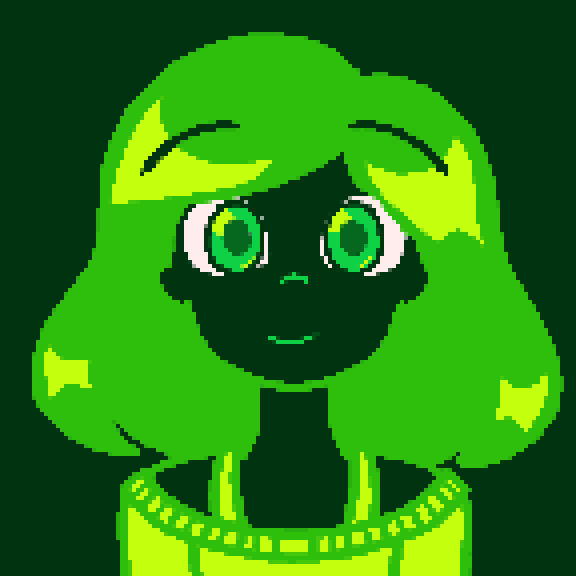
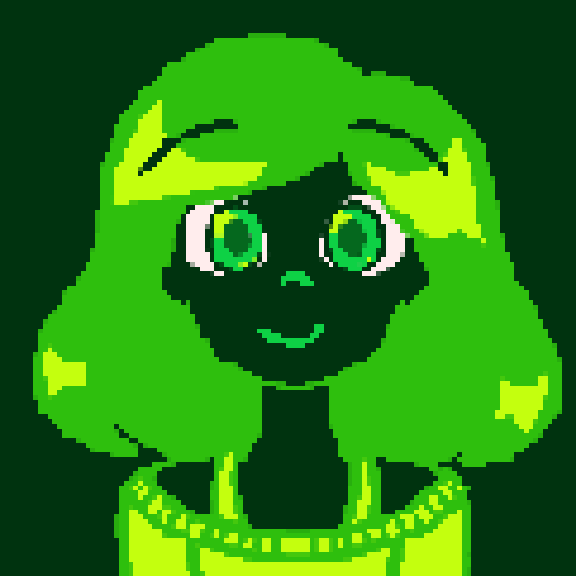
visual changes

diff --git a/src/components/Body/moodSelect.css b/src/components/Body/moodSelect.css
@@ -4,20 +4,6 @@
   justify-content: space-evenly;
 }
 
-.std-msg {
-  display: inline-flex;
-  margin-left: auto;
-  margin-right: auto;
-  padding: 10px;
-  height: max-content;
-  flex-wrap: wrap;
-  font-size: 24px;
-  letter-spacing: 3px;
-  word-spacing: 1em;
-  text-align: center;
-  color: #120e1b;
-  font-family: 'Playmegames', sans-serif;
-}
 
 #angry {
   display: flex;
@@ -25,17 +11,18 @@
   justify-content: center;
   align-content: center;
   margin: 40px;
+  padding: 10px;
   border-style: ridge;
-  border-radius: 100%;
-  box-shadow:3px 3px #44315e;
+  border-radius: 5px;
+  box-shadow:3px 3px #001406;
   text-decoration-line: none;
   font-size: x-large;
   color: #120e1b;
   font-family: 'Playmegames';
   border-color:#ff5c61;
   background-color: #ff7075;
-  width: 100px;
-  height: 100px;
+  width: 90px;
+  height: 90px;
 }
 #angry:hover {
   background-color: #fa4d53;
@@ -48,17 +35,18 @@
   justify-content: center;
   align-content: center;
   margin: 40px;
+  padding: 7px;
   border-style: ridge;
-  border-radius: 100%;
-  box-shadow:3px 3px #44315e;
+  border-radius: 5px;
+  box-shadow:3px 3px #001406;
   text-decoration-line: none;
   font-size: x-large;
   color: #120e1b;
   font-family: 'Playmegames';
   border-color: #ffca3a;
   background-color: #ffd35c;
-  width: 100px;
-  height: 100px;
+  width: 90px;
+  height: 90px;
 }
 #happy:hover {
   background-color:#fdc62f;
@@ -72,16 +60,16 @@
   align-content: center;
   margin: 40px;
   border-style: ridge;
-  border-radius: 100%;
-  box-shadow:3px 3px #44315e;
+  border-radius: 5px;
+  box-shadow:3px 3px #001406;
   text-decoration-line: none;
   font-size: x-large;
   color: #120e1b;
   font-family: 'Playmegames';
   border-color:#93cef3;
   background-color: #93cdf0;
-  width: 100px;
-  height: 100px;
+  width: 90px;
+  height: 90px;
 }
 #sad:hover {
   background-color: #3cacf1;
@@ -94,19 +82,19 @@
   flex-wrap: wrap;
   justify-content: center;
   align-content: center;
-  width: 6em;
-  height: 6em;
+  width: 90px;
+  height: 90px;
   margin: 40px;
   padding: 10px;
   border-style: ridge;
-  border-radius: 100%;
+  border-radius: 5px;
   border-color: #dad8d5;
   background-color: #e2e2e1;
-  box-shadow: 3px 3px #44315e;
+  box-shadow: 3px 3px #001406;
   text-decoration-line: none;
   color: #2a2828;
   font-family: 'Playmegames';
-  text-align:
+  text-align: center;
 }
 
 .std-mood-buttons:hover {

diff --git a/src/App.css b/src/App.css
@@ -1,9 +1,19 @@
 * {
-  background-color: #6a4c93;
+  background-color: #00140659;
   margin: 2px;
   padding: 2px;
   box-sizing: border-box;
 }
+
+/* 
+001b0a63
+#000003
+#001406
+#00330f
+#05681e
+#27a90d
+#2ebf0d
+#c4ff0e */
 
 .EMAs_Image {
   display: flex;
@@ -13,40 +23,42 @@
   width: 15rem;
   height: 15rem;
   border-radius: 3px;
-  border: 5px dashed #b4a1ce;
+  border: 5px dashed #27a90d;
 }
 
 .std-msg {
   display: inline-flex;
   margin-left: auto;
   margin-right: auto;
-  padding: 10px;
+  padding: 5px;
   height: max-content;
   flex-wrap: wrap;
   font-size: 24px;
   letter-spacing: 3px;
   word-spacing: 1em;
+  line-height: 100%;
   text-align: center;
-  color: #120e1b;
+  color: #2ebf0d;
   font-family: 'Playmegames', sans-serif;
 }
 
 .continue {
   display: flex;
+  max-width: max-content;
+  max-height: max-content;
+  padding: 7px;
   margin-left: auto;
   margin-right: auto;
   justify-content: center;
   border-style: ridge;
   border-color:#a1db43;
-  border-radius: 25px;
+  border-radius: 5px;
   font-size: large;
   font-family: 'Playmegames';
-  color: darkgreen;
+  color: #00330f;
   text-decoration: none;
-  width: 10em;
-  height: 2em;
   background-color: #bae576;
-  box-shadow:3px 3px #44315e;
+  box-shadow:3px 3px #001406;
 }
 
 @media (max-width: 400px) and (max-height: 800px) {
@@ -81,7 +93,7 @@
 
 /* techno_purple scheme:
   #120e1b
-  #44315e
+  #001406
   #6a4c93
   #9e87c0
   #b4a1ce

diff --git a/src/components/Body/Sad.js b/src/components/Body/Sad.js
@@ -3,14 +3,20 @@ import './MoodSelect.css';
 import {
     Link
 } from "react-router-dom";
+import EMA from './src/components/sympathyEMA_green_pixel.png';
+import Typing from 'react-typing-animation';
 
 class Sad extends React.Component {
     render() {
         return (     
             <div>
-                <h5 className="std-msg">
-                    I'm sorry you feel this way. Can you explain why?
-                </h5>
+                <img className="EMAs_Image" src= {EMA} alt="EMA's Selfie" />
+                <Typing>
+                    <p className="std-msg">
+                        I'm sorry you feel this way. Can you explain why?
+                    </p>
+                </Typing>
+                
 
                     <div className= "mood-select">
                         <Link to="/howareyoufeelingtoday/sad/grief"

diff --git a/src/components/Body/Happy.js b/src/components/Body/Happy.js
@@ -4,14 +4,18 @@ import {
     Link
 } from "react-router-dom";
 import './Happy_Returns';
+import Typing from 'react-typing-animation';
 
 class Happy extends React.Component {
     render() {
         return (     
             <div>
-                <h5 className="std-msg">
-                    I'm glad you're happy! Can you explain why?
-                </h5>
+                <Typing> 
+                    <p className="std-msg">
+                        I'm glad you're happy! Can you explain why?
+                    </p>
+                </Typing>
+                
                 
                     <div className= "mood-select">
                         <Link to="/howareyoufeelingtoday/happy/gratitude"

diff --git a/src/components/Body/Angry.js b/src/components/Body/Angry.js
@@ -4,13 +4,18 @@ import {
     Link
 } from "react-router-dom";
 
+import Typing from 'react-typing-animation';
+
 class Angry extends React.Component {
     render() {
         return (     
             <div>
-                <h5 className="std-msg">
-                    I'm sorry you feel this way. Can you explain why?
-                </h5>
+                <Typing> 
+                    <p className="std-msg">
+                        I'm sorry you feel this way. Can you explain why?
+                    </p>
+                </Typing>
+                
 
                     <div className= "mood-select">
                         <Link to="/howareyoufeelingtoday/angry/grief"

diff --git a/src/App.js b/src/App.js
@@ -14,7 +14,7 @@ import MoodSelect from './components/Body/MoodSelect';
 import Angry from './components/Body/Angry';
 import Happy from './components/Body/Happy';
 import Sad from './components/Body/Sad';
-import EMA from './EMA_purple_pixel.png';
+import EMA from './EMA_green_pixel.png';
 import {useState} from 'react';
 
 

diff --git a/src/components/Body/Welcome.css b/src/components/Body/Welcome.css
@@ -7,7 +7,7 @@
     border: solid 5px #dddddd;
     border-style: groove;
     padding-left: 15px;
-    border-radius: 25px;
+    border-radius: 5px;
     font-size: large;
     width: 15em;
     height: 3em;

diff --git a/src/components/Head/Header.css b/src/components/Head/Header.css
@@ -6,7 +6,7 @@
     justify-content: center;
     font-size: 3em;
     letter-spacing: 1em;
-    color: #b4a1ce;
+    color: orange;
     font-family: 'Playmegames';
     text-decoration-line: none;
 }
